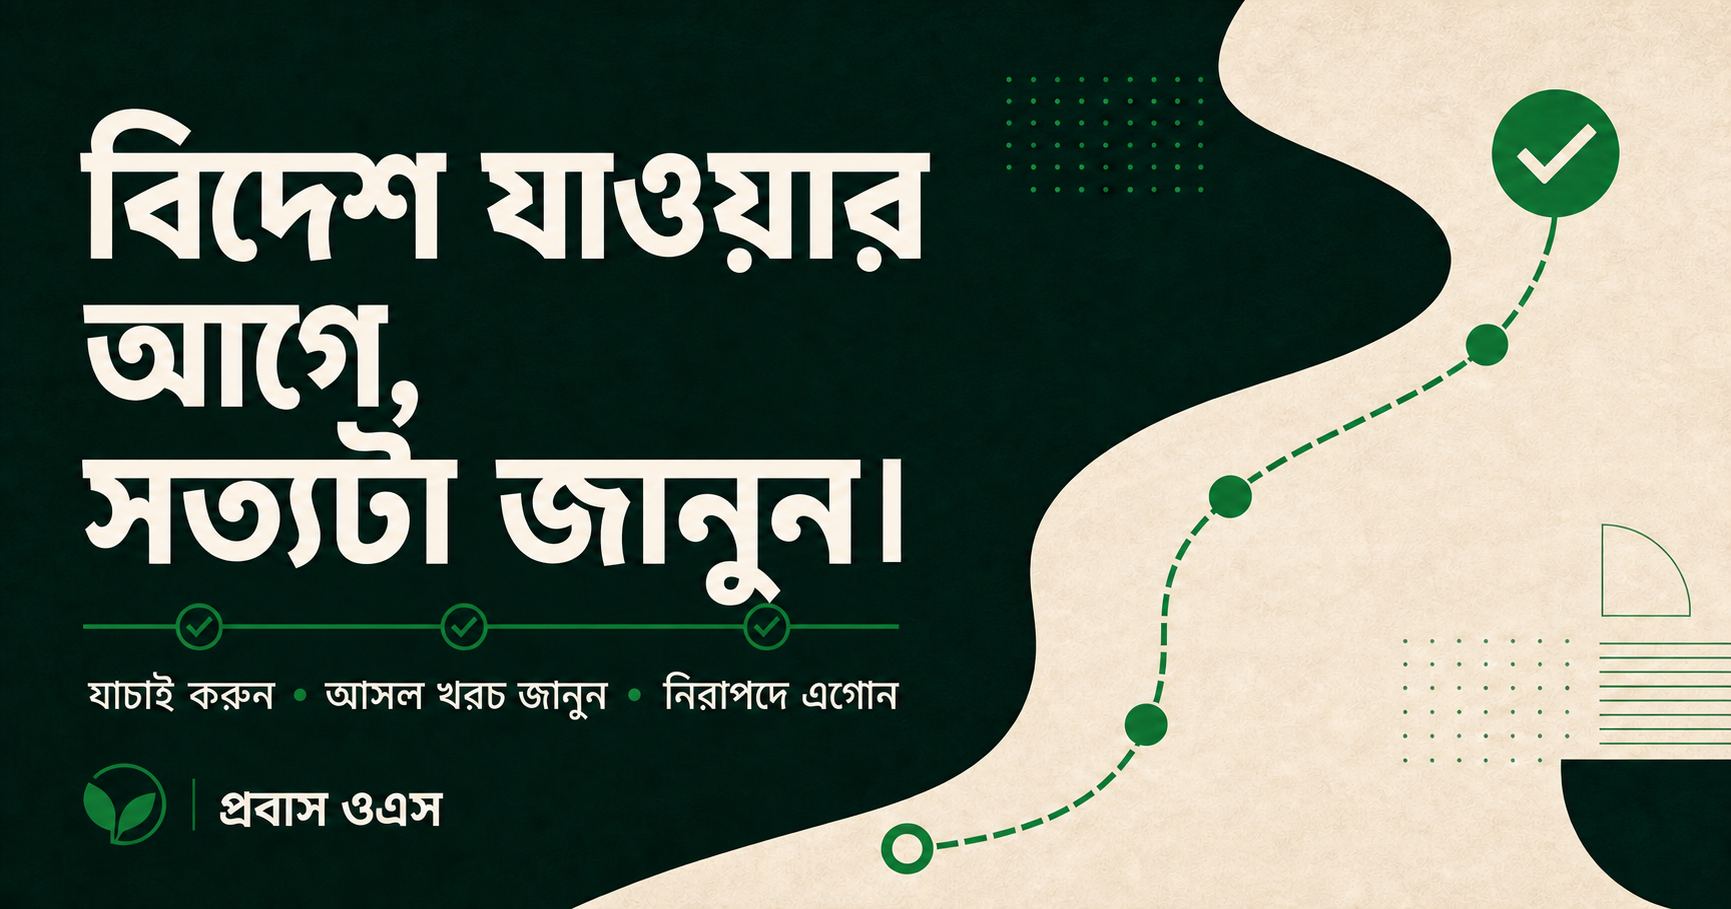
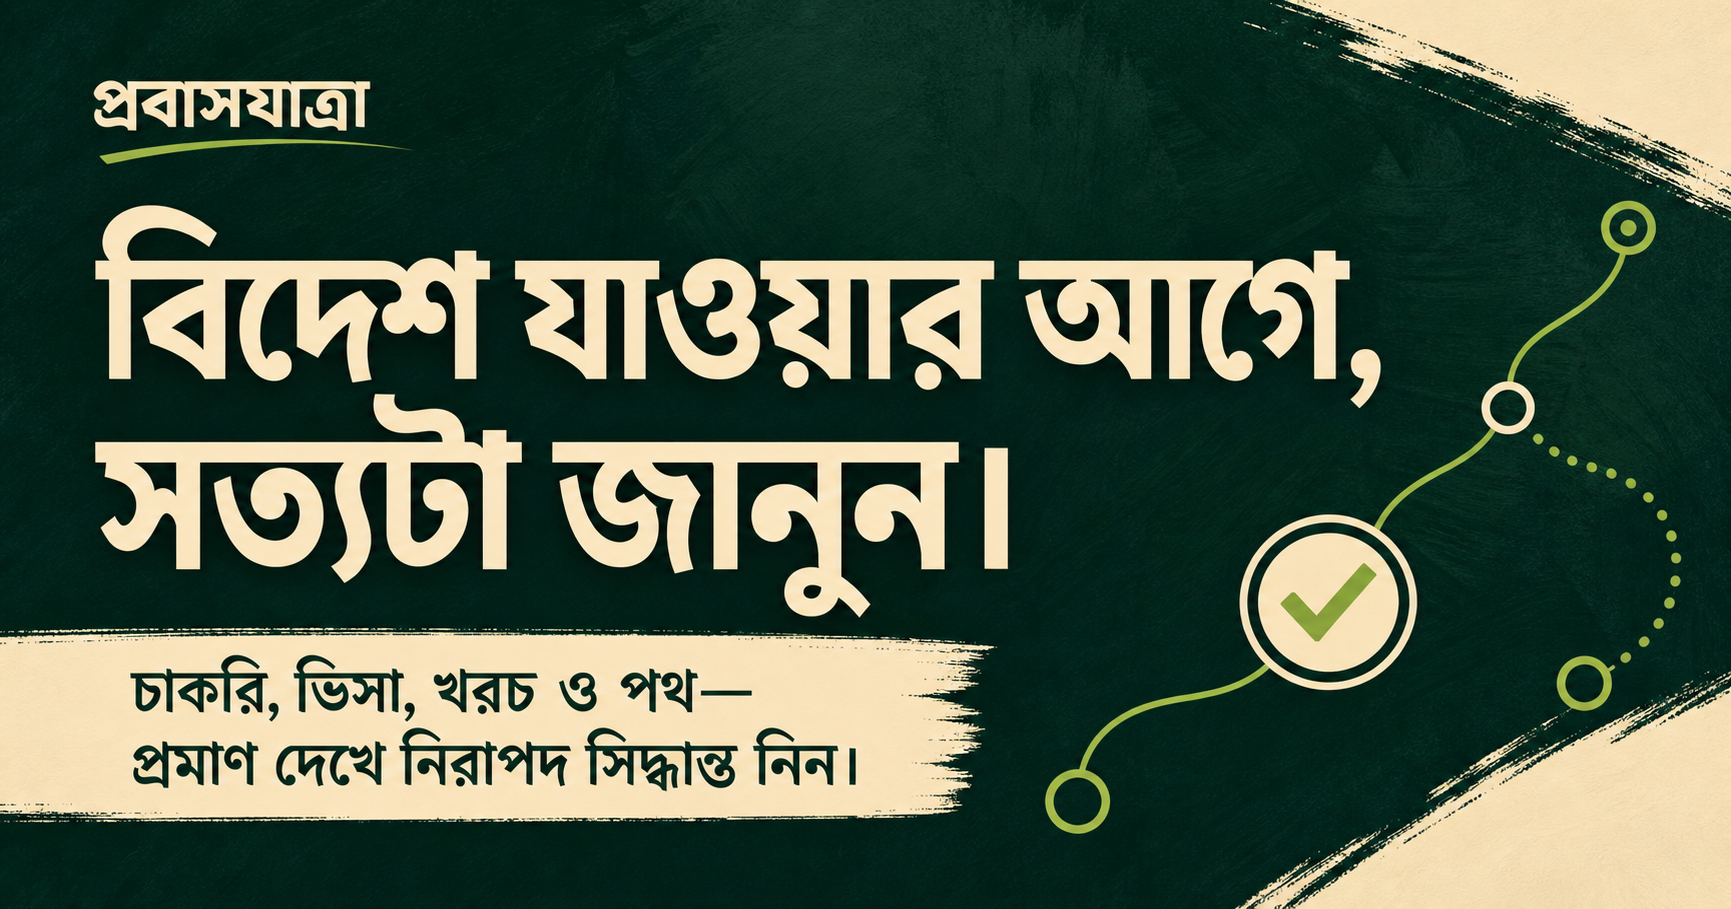
Restore wide hero and rename public brand

diff --git a/apps/web/app/[locale]/page.tsx b/apps/web/app/[locale]/page.tsx
@@ -1,6 +1,14 @@
 import Link from 'next/link';
 import type { Metadata } from 'next';
-import { Disclosure, Icon } from '@probash/web-ui';
+import {
+  CanvasPanel,
+  ChipLink,
+  Disclosure,
+  FeaturePill,
+  GlassCard,
+  Icon,
+  Reveal,
+} from '@probash/web-ui';
 import { apiRequest } from '@/lib/api';
 import { localeSegment, parseLocaleParam, translator } from '@/lib/i18n';
 import { canonicalMetadata, siteUrl } from '@/lib/seo';
@@ -175,104 +183,131 @@ export default async function Landing({
     <div className="experience-home">
       <section className="experience-hero" aria-labelledby="experience-hero-title">
         <div className="experience-shell">
-          <div className="experience-hero-stage">
-            <div className="experience-route-mark" aria-hidden="true">
-              <span />
-              <span />
-              <span />
-            </div>
-
-            <div className="experience-hero-layout">
-              <div className="experience-hero-copy">
-                <p className="experience-kicker">
-                  <span className="experience-kicker-dot" aria-hidden="true" />
-                  {t('experience.heroEyebrow')}
-                </p>
-                <h1 id="experience-hero-title" className="experience-hero-title">
-                  <span>{t('experience.heroTitleLine')}</span>
-                  <strong>{t('experience.heroTitleAccent')}</strong>
-                </h1>
-                <p className="experience-hero-lead">{t('site.heroLead')}</p>
-
-                <div className="experience-hero-actions">
-                  <Link href={`/${seg}/verify`} className="experience-btn experience-btn-light">
-                    <span>{t('site.heroVerifyCta')}</span>
-                    <Icon name="arrow" size={20} />
-                  </Link>
-                  <Link href={`/${seg}/countries`} className="experience-btn experience-btn-ghost">
-                    <Icon name="globe" size={20} />
-                    <span>{t('experience.exploreRoutes')}</span>
-                  </Link>
-                </div>
-
-                <div className="experience-hero-audio">
-                  <ListenButton
-                    text={`${t('site.heroTitle')}। ${t('site.heroLead')}`}
-                    label={t('common.listen')}
-                    lang={locale}
-                  />
-                  <span>{t('site.heroNote')}</span>
-                </div>
+          <div className="experience-hero-frame">
+            <CanvasPanel className="experience-canvas">
+              <div className="hero-topbar">
+                <IntentSwitch locale={locale} intent={intent} tone="canvas" />
               </div>
 
-              <aside className="experience-check-card" aria-labelledby="quick-check-title">
-                <div className="experience-check-card-head">
-                  <span className="experience-check-icon" aria-hidden="true">
-                    <Icon name="verify" size={24} />
-                  </span>
-                  <p>{t('experience.checkEyebrow')}</p>
+              <div className="hero-grid">
+                <div className="hero-copy">
+                  <Reveal index={0}>
+                    <span className="hero-eyebrow">{t('site.tagline')}</span>
+                  </Reveal>
+                  <Reveal index={1}>
+                    <h1 id="experience-hero-title" className="hero-title">
+                      {t('site.heroTitle')}
+                    </h1>
+                  </Reveal>
+                  <Reveal index={2}>
+                    <p className="hero-lead">{t('site.heroLead')}</p>
+                  </Reveal>
+
+                  <Reveal index={3}>
+                    <div className="hero-actions">
+                      <ChipLink href={`/${seg}/verify`} chip={<Icon name="arrow" size={18} />}>
+                        {t('site.heroVerifyCta')}
+                      </ChipLink>
+                      <Link
+                        href={`/${seg}/countries`}
+                        className="experience-btn experience-btn-ghost"
+                      >
+                        <Icon name="globe" size={20} />
+                        <span>{t('experience.exploreRoutes')}</span>
+                      </Link>
+                    </div>
+                  </Reveal>
+
+                  <Reveal index={4}>
+                    <div className="hero-utility">
+                      <ListenButton
+                        text={`${t('site.heroTitle')}। ${t('site.heroLead')}`}
+                        label={t('common.listen')}
+                        lang={locale}
+                      />
+                      <p className="hero-note">{t('site.heroNote')}</p>
+                    </div>
+                  </Reveal>
+
+                  <Reveal index={5}>
+                    <ul className="hero-pills">
+                      <FeaturePill icon={<Icon name="check" size={16} />}>
+                        {t('site.pill1')}
+                      </FeaturePill>
+                      <FeaturePill icon={<Icon name="check" size={16} />}>
+                        {t('site.pill2')}
+                      </FeaturePill>
+                      <FeaturePill icon={<Icon name="check" size={16} />}>
+                        {t('site.pill3')}
+                      </FeaturePill>
+                    </ul>
+                  </Reveal>
                 </div>
-                <h2 id="quick-check-title">{t('experience.checkTitle')}</h2>
-                <p className="experience-check-body">{t('experience.checkBody')}</p>
 
-                <form action={`/${seg}/verify`} method="get" className="experience-check-form">
-                  <label htmlFor="experience-public-id">{t('scanner.publicIdLabel')}</label>
-                  <div>
-                    <input
-                      id="experience-public-id"
-                      name="publicId"
-                      placeholder="BD-QA-2026-00000000"
-                      autoComplete="off"
-                    />
-                    <button type="submit">
-                      <span>{t('scanner.checkNow')}</span>
-                      <Icon name="arrow" size={19} />
-                    </button>
-                  </div>
-                </form>
+                <Reveal index={2} className="hero-side">
+                  <GlassCard as="article">
+                    <span className="hero-side-icon" aria-hidden="true">
+                      <Icon name="verify" size={22} />
+                    </span>
+                    <h2 id="quick-check-title" className="hero-side-title">
+                      {t('experience.checkTitle')}
+                    </h2>
+                    <p>{t('experience.checkBody')}</p>
 
-                <div className="experience-check-note">
-                  <Icon name="shield" size={18} />
-                  <span>{t('experience.checkNote')}</span>
-                </div>
-              </aside>
+                    <form action={`/${seg}/verify`} method="get" className="hero-verify-form">
+                      <label htmlFor="hero-public-id" className="hero-verify-label">
+                        {t('scanner.publicIdLabel')}
+                      </label>
+                      <div className="hero-verify-row">
+                        <input
+                          id="hero-public-id"
+                          name="publicId"
+                          className="hero-verify-input"
+                          placeholder="BD-QA-2026-00000000"
+                          autoComplete="off"
+                        />
+                        <button type="submit" className="pui-btn pui-btn-primary pui-btn-md">
+                          {t('scanner.checkNow')}
+                        </button>
+                      </div>
+                    </form>
+
+                    <dl className="hero-side-stats">
+                      <div>
+                        <dt>{t('intent.routesFor')}</dt>
+                        <dd>{intent === 'study' ? studyRoutes.length : workRoutes.length}</dd>
+                      </div>
+                      <div>
+                        <dt>{t('site.statCountries')}</dt>
+                        <dd>
+                          {distinctCountries(intent === 'study' ? studyRoutes : workRoutes)}
+                        </dd>
+                      </div>
+                      <div>
+                        <dt>{intent === 'study' ? t('site.studyCourses') : t('site.statJobs')}</dt>
+                        <dd>{intent === 'study' ? courses : jobs}</dd>
+                      </div>
+                    </dl>
+
+                    <p className="hero-warning">
+                      <Icon name="warning" size={18} />
+                      <span>{t('cost.payOnlyHere')}</span>
+                    </p>
+                  </GlassCard>
+                </Reveal>
+              </div>
+            </CanvasPanel>
+
+            <div className="experience-status-strip" role="note">
+              <div>
+                <span className="experience-status-pulse" aria-hidden="true" />
+                <strong>{t('experience.statusLabel')}</strong>
+              </div>
+              <p>{t('experience.statusBody')}</p>
+              <Link href={`/${seg}/about`}>
+                {t('experience.statusCta')} <Icon name="arrow" size={17} />
+              </Link>
             </div>
-
-            <ul className="experience-hero-proof">
-              <li>
-                <Icon name="check" size={17} />
-                <span>{t('site.pill1')}</span>
-              </li>
-              <li>
-                <Icon name="check" size={17} />
-                <span>{t('site.pill2')}</span>
-              </li>
-              <li>
-                <Icon name="check" size={17} />
-                <span>{t('site.pill3')}</span>
-              </li>
-            </ul>
-          </div>
-
-          <div className="experience-status-strip" role="note">
-            <div>
-              <span className="experience-status-pulse" aria-hidden="true" />
-              <strong>{t('experience.statusLabel')}</strong>
-            </div>
-            <p>{t('experience.statusBody')}</p>
-            <Link href={`/${seg}/about`}>
-              {t('experience.statusCta')} <Icon name="arrow" size={17} />
-            </Link>
           </div>
         </div>
       </section>

diff --git a/apps/web/app/globals.css b/apps/web/app/globals.css
@@ -1143,9 +1143,9 @@ html[lang='en'] body {
   }
 
   .experience-shell {
-    width: min(100%, 1280px);
+    width: min(100%, var(--size-max-site-width));
     margin-inline: auto;
-    padding-inline: clamp(18px, 4vw, 54px);
+    padding-inline: clamp(var(--space-md), 3vw, var(--space-3xl));
   }
 
   .experience-section {
@@ -1350,6 +1350,21 @@ html[lang='en'] body {
   /* Hero */
   .experience-hero {
     padding-block: 16px 0;
+  }
+
+  .experience-hero-frame {
+    overflow: hidden;
+    border-radius: 34px;
+    box-shadow: var(--elevation-float);
+  }
+
+  .experience-canvas {
+    border-radius: 34px 34px 0 0;
+    box-shadow: none;
+  }
+
+  .experience-canvas .hero-grid {
+    max-width: none;
   }
 
   .experience-hero-stage {

diff --git a/packages/config/src/env.ts b/packages/config/src/env.ts
@@ -11,8 +11,8 @@ export const envSchema = z.object({
   API_BASE_URL: z.string().url().default('http://localhost:3001'),
   PORT: z.coerce.number().int().positive().default(3001),
   DEFAULT_LOCALE: z.enum(['bn-BD', 'en']).default('bn-BD'),
-  PUBLIC_PRODUCT_NAME: z.string().min(1).default('ProbashOS'),
-  PUBLIC_PRODUCT_NAME_BN: z.string().min(1).default('প্রবাস ওএস'),
+  PUBLIC_PRODUCT_NAME: z.string().min(1).default('ProbashJatra'),
+  PUBLIC_PRODUCT_NAME_BN: z.string().min(1).default('প্রবাসযাত্রা'),
 
   STORAGE_DRIVER: z.enum(['memory', 'postgres']).default('memory'),
   DATABASE_URL: z.string().optional(),

diff --git a/apps/web/app/[locale]/layout.tsx b/apps/web/app/[locale]/layout.tsx
@@ -6,8 +6,8 @@ import { SiteHeader } from '@/components/SiteHeader';
 import { SiteFooter } from '@/components/SiteFooter';
 
 const productName = {
-  'bn-BD': process.env['PUBLIC_PRODUCT_NAME_BN'] ?? 'প্রবাস ওএস',
-  en: process.env['PUBLIC_PRODUCT_NAME'] ?? 'ProbashOS',
+  'bn-BD': process.env['PUBLIC_PRODUCT_NAME_BN'] ?? 'প্রবাসযাত্রা',
+  en: process.env['PUBLIC_PRODUCT_NAME'] ?? 'ProbashJatra',
 };
 
 export async function generateMetadata({
